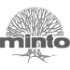
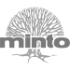
lightened images

diff --git a/index.html b/index.html
@@ -105,23 +105,23 @@
 
     <!-- customers -->
     <div class="container">
-      <div id="custoers">
+      <div id="customers">
         <div class="row align-items-center justify-content-center">
           <div class"col">
-            <img src="./img/minto-bw.png" class="img-fluid mr-5 pt-4 mt-2">
+            <img src="./img/minto-bw.png" class="mr-sm-5 pt-4 mt-2 bw">
           </div>
           <div class"col">
-            <img src="./img/oakleigh-bw.png" class="mr-5 ml-5 pt-4 mt-2">
-          </div>
-          <div class="w-100 d-md-none"></div>
-          <div class"col">
-            <img src="./img/atria-bw.png" class="mr-5 ml-lg-5 pt-4 mt-2">
+            <img src="./img/oakleigh-bw.png" class="ml-sm-3 mr-sm-5 ml-xl-5 pt-4 mt-2 bw">
           </div>
           <div class"col">
-            <img src="./img/brivia-bw.png" class="mr-5 ml-5 pt-4 mt-2">
+            <img src="./img/atria-bw.png" class="ml-sm-3 mr-lg-5 ml-xl-5 pt-4 mt-2 bw">
+          </div>
+          <div class="w-100 d-lg-none"></div>
+          <div class"col">
+            <img src="./img/brivia-bw.png" class="ml-lg-3 mr-5 ml-xl-5 pt-4 mt-2 bw">
           </div>
           <div class"col">
-            <img src="./img/polocorp-bw.png" class="d-none d-xl-block ml-5 pt-4 mt-2">
+            <img src="./img/polocorp-bw.png" class="ml-sm-3 ml-xl-5 pt-4 mt-2 bw">
           </div>
         </div>
       </div>

diff --git a/css/main.css b/css/main.css
@@ -213,6 +213,15 @@ PAGE: HOMEPAGE
   margin: 0 auto;
 }
 
+/* Homepage: Customers */
+@media (max-width: 576px) {
+  .bw {
+    display: block;
+    width: 50%;
+    height: auto;
+  }
+}
+
 /* Homepage: Card 2 */
 
 #homecard2 {
